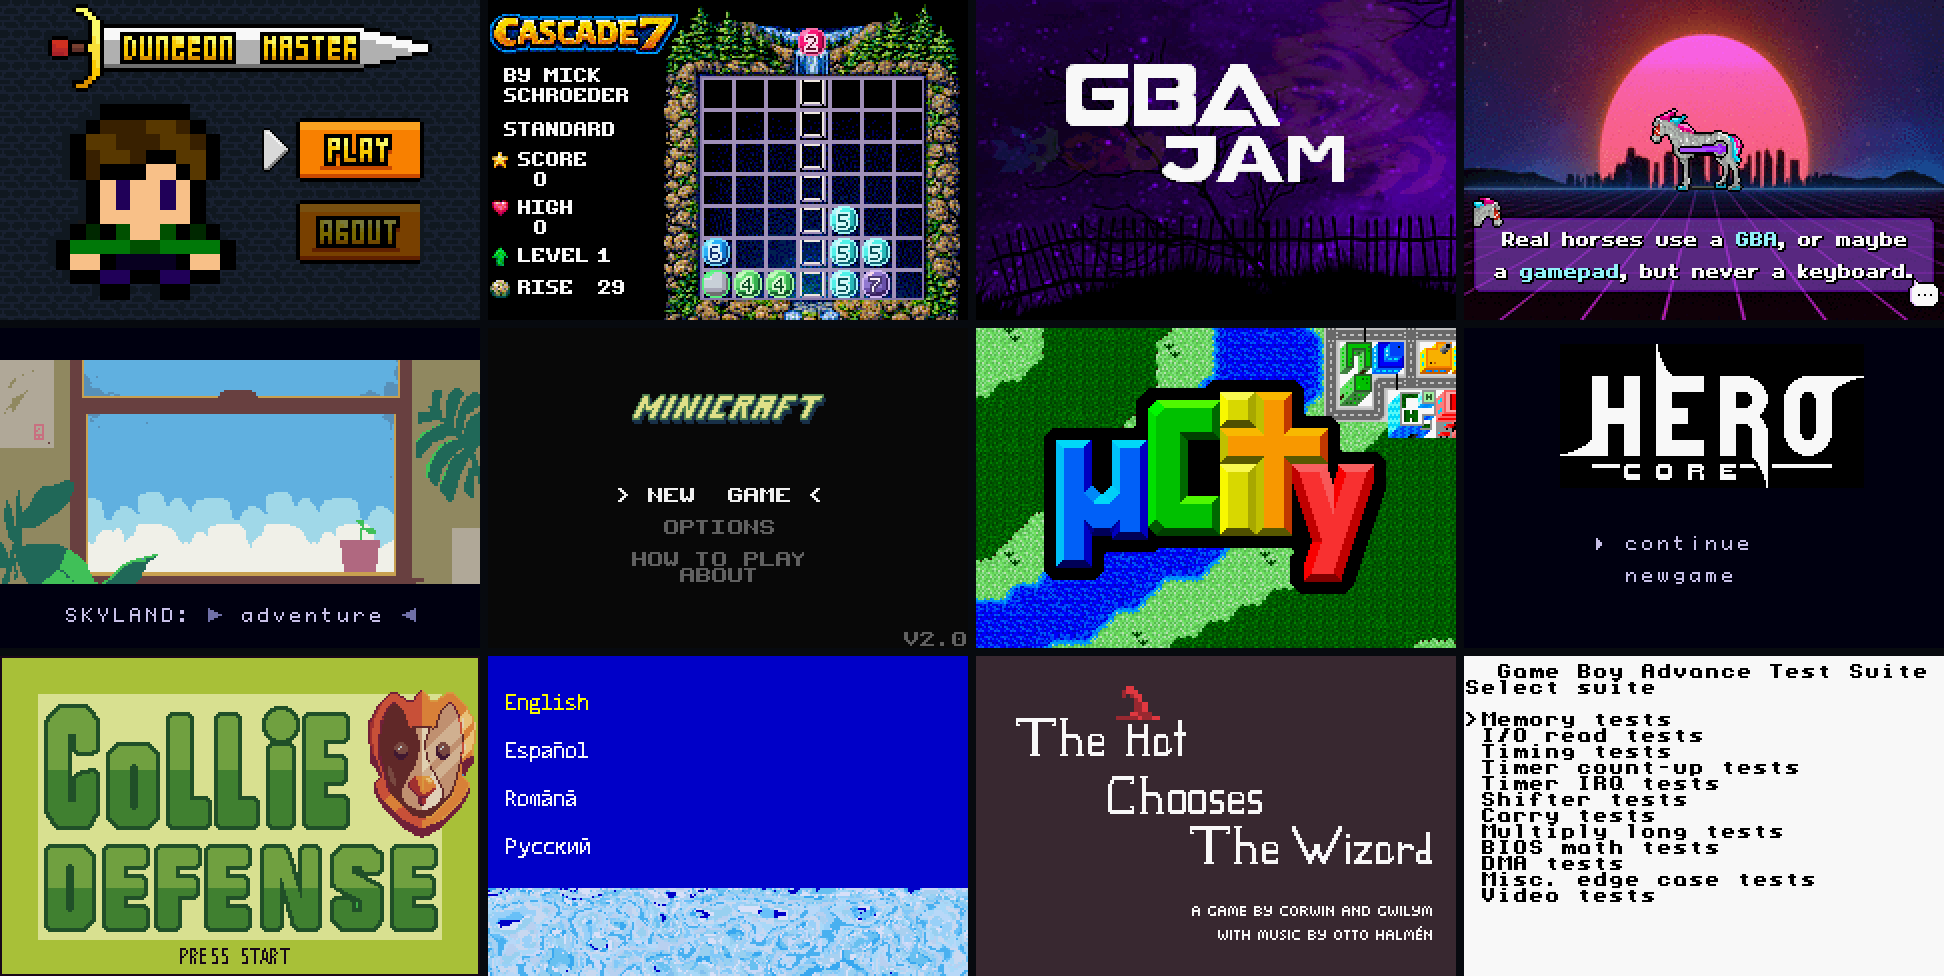
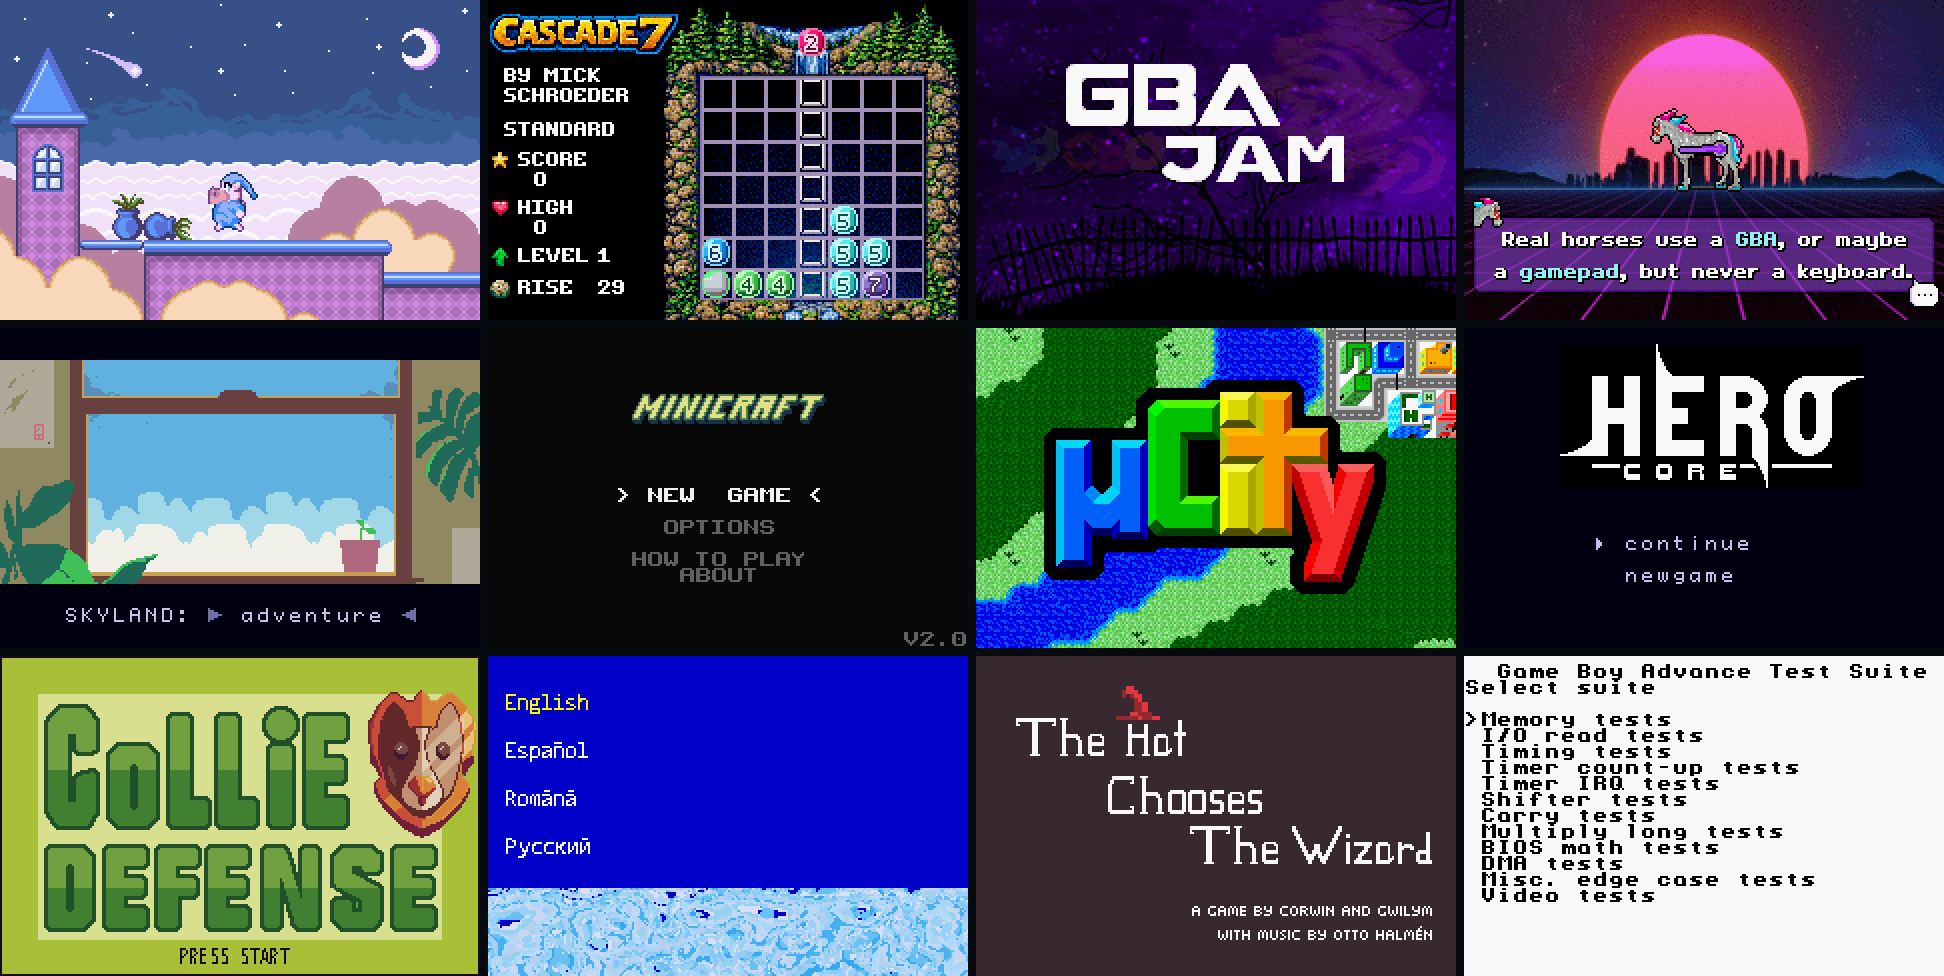
Show Sleepyheads gameplay first in the README gallery

Changed region(s): [[0.0, 0.0, 0.2469, 0.3381]]

diff --git a/README.md b/README.md
@@ -15,7 +15,7 @@ straight into [Sleepyheads](https://vhaugan.itch.io/sleepyheads-advance) (**A** 
 
 [![Homebrew running in rgba](docs/gallery.png)](https://bokuweb.github.io/rgba/)
 
-<sub>Dungeon Master · CASCADE7 · GBA Microjam '23 · BeatBeast · Skyland · Minicraft · µCity Advance · Hero Core · Collie Defense · The Hat Chooses the Wizard · mGBA test suite — all rendered by rgba.</sub>
+<sub>Sleepyheads · CASCADE7 · GBA Microjam '23 · BeatBeast · Skyland · Minicraft · µCity Advance · Hero Core · Collie Defense · The Hat Chooses the Wizard · mGBA test suite — all rendered by rgba.</sub>
 
 ## Contents
 
